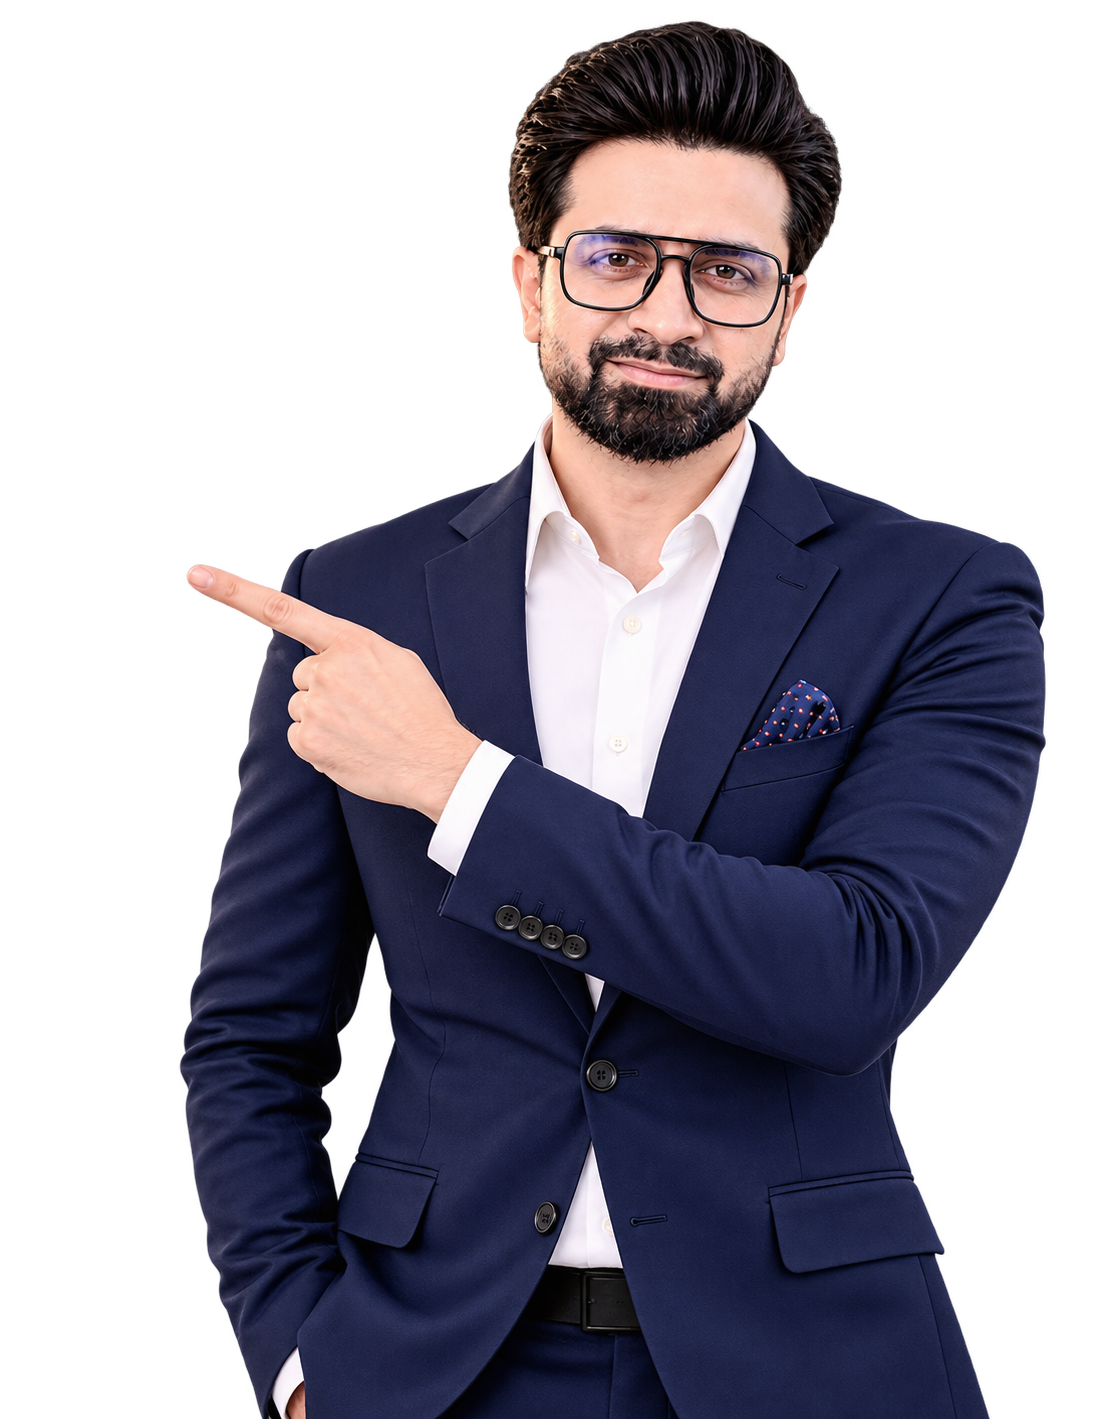
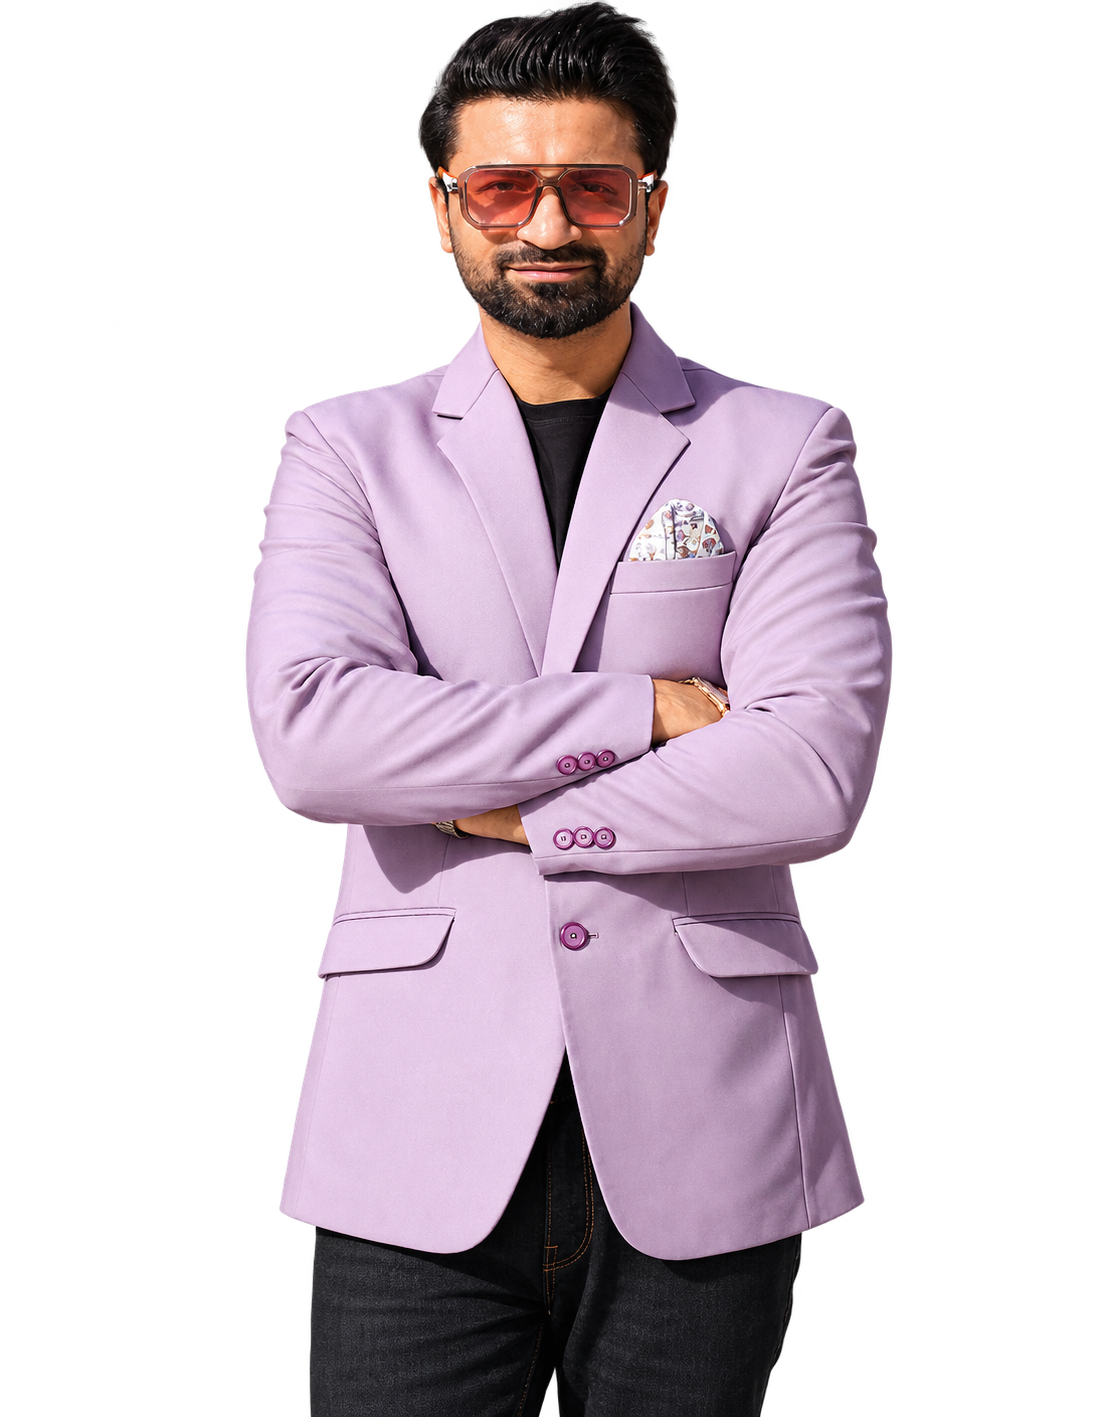
hero photo change and phone number update in honey_arora_properties

diff --git a/honey_arora_portfolio/src/components/CTAButton.jsx b/honey_arora_portfolio/src/components/CTAButton.jsx
@@ -3,8 +3,8 @@ import { useEffect, useState } from "react";
 import { AnimatePresence, motion } from "motion/react";
 import "../styles/CTAButton.css";
 
-const phoneNumber = "+971585812356";
-const whatsappNumber = "+971585812356";
+const phoneNumber = "+971585911064";
+const whatsappNumber = "+971585911064";
 
 const whatsappMessage =
   "Hello Sir, I came across your website and really liked your work. I’m interested in discussing a project with you. Could you please share more details about your services? Looking forward to connecting with you. Thank you!";
@@ -118,7 +118,7 @@ const CTAButton = ({ children = "LET'S TALK" }) => {
                       <strong>Give me a call</strong>
                       <small>Let's talk directly</small>
                       <span className="contact-option-number">
-                        +971585812356
+                        +971585911064
                       </span>
                     </span>
 

diff --git a/honey_arora_portfolio/src/components/Footer.jsx b/honey_arora_portfolio/src/components/Footer.jsx
@@ -108,13 +108,13 @@ const Footer = () => {
           <h3>GET IN TOUCH</h3>
 
           <span className="footer-contact-label">CALL ME</span>
-          <a href="tel:+971585812356" className="footer-contact-link">
-            +971585812356
+          <a href="tel:+971585911064" className="footer-contact-link">
+            +971585911064
           </a>
 
           <span className="footer-contact-label">WHATSAPP</span>
           <a
-            href="https://wa.me/+971585812356"
+            href="https://wa.me/+971585911064"
             target="_blank"
             rel="noopener noreferrer"
             className="footer-contact-link"

diff --git a/honey_arora_portfolio/src/components/Hero.jsx b/honey_arora_portfolio/src/components/Hero.jsx
@@ -76,7 +76,7 @@ const Hero = () => {
 
         <div className="hero-visual">
           <motion.img
-            src="/hh.png"
+            src="/hhhh.png"
             alt="Honey Arora - Real Estate Advisor"
             className="hero-person"
             initial={false}
